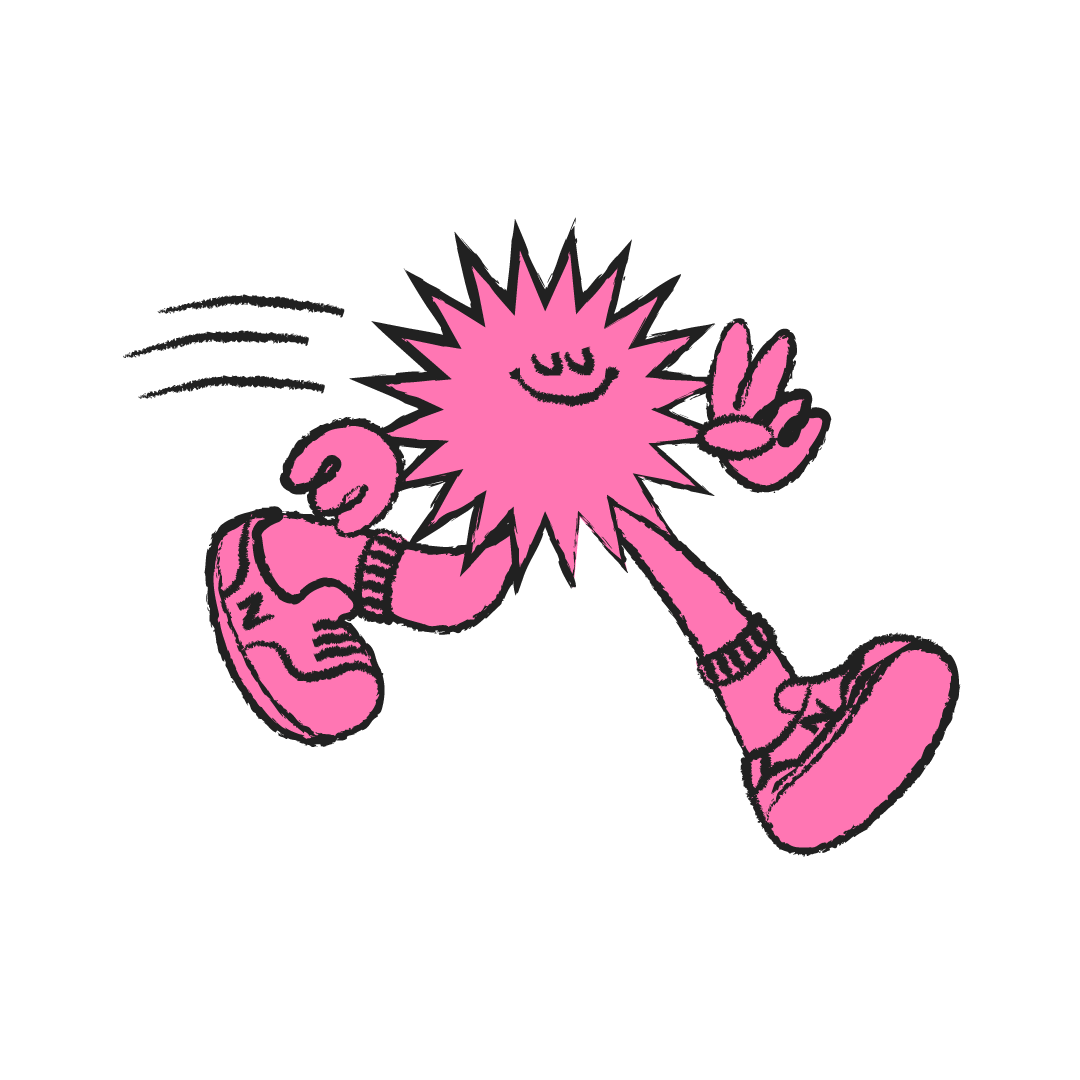
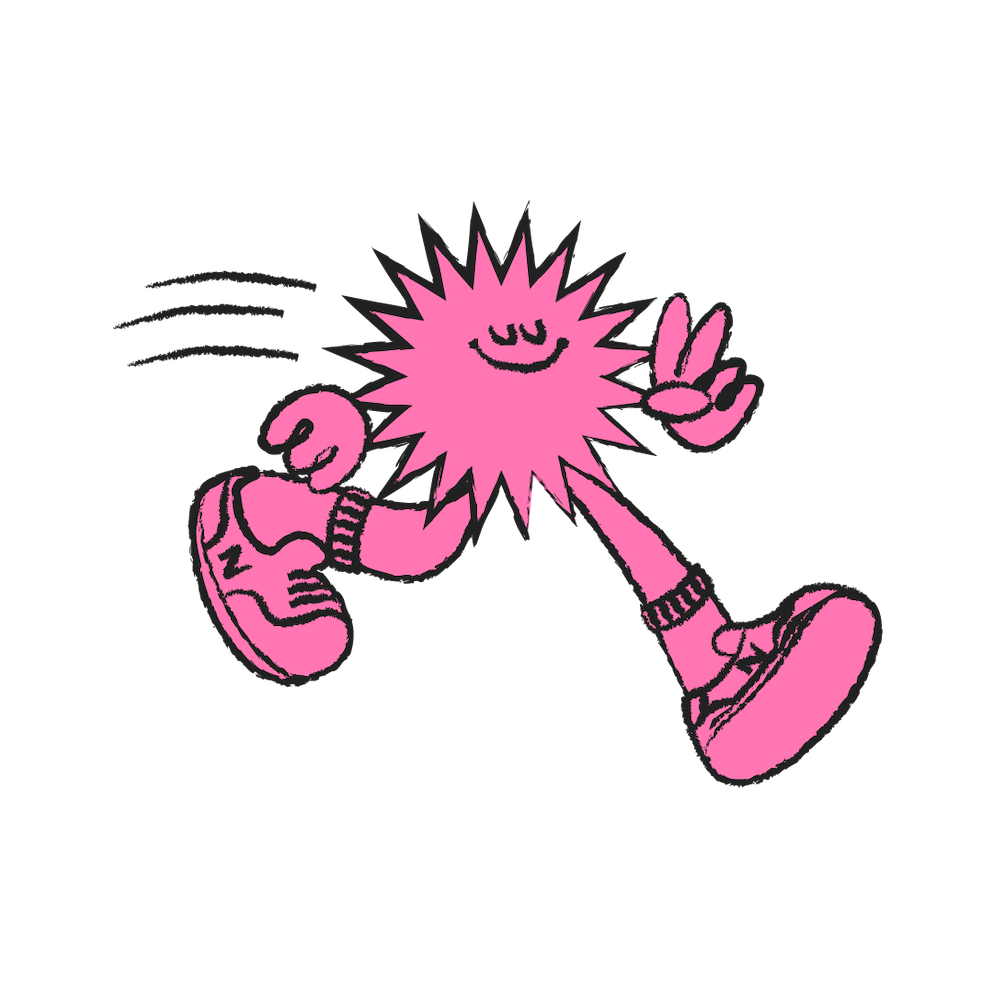
login
login screen maybe a good deal

diff --git a/antiCarreiraCarreiraClub/login.html b/antiCarreiraCarreiraClub/login.html
@@ -1,0 +1,102 @@
+<!DOCTYPE html>
+<html lang="en">
+<head>
+    <meta charset="UTF-8">
+    <meta name="viewport" content="width=device-width, initial-scale=1.0">
+    <title>Anti Carreira Carreira Clube!</title>
+    <link rel="stylesheet" href="./styles/loginStyle.css">
+    <link rel="icon" type="image/x-icon" href="./images/splashs/NOME-BRANCO-TENIS-PRETO.png">
+</head>
+<body>
+    <nav>
+        <div class="header-img-container">
+            <div class="img-logo">
+                <a href="http://www.google.com"><img src="./images/logos/logoBlack.jpg" height="100px" alt=""></a>
+            </div>
+        </div>
+        
+            <div class="options">
+                <ul>
+                    <li><a href="https://www.perunning.com.br/calendario/"></a>Corridas</li>
+                    <li>Fotos</li>
+                    <li>Quem Somos</li>
+                    <li>Login</li>
+                </ul>
+            </div>
+    </nav>
+
+    <main>
+
+        <div id="main-container">
+
+            <div id="banner-container">
+                <img src="./images/logos/logoBlack.jpg" alt="">
+            </div>
+
+            <div id="form-container">
+
+                <div id="form-box">
+
+                    <img id="logo-corre" src="./images/mascs/MASCOTE-ROSA.png">
+
+                    <form id="login-form">
+                        <input type="text" name="username" placeholder="Telefone, Usuário ou E-mail">
+                        <input type="password" name="password" placeholder="Senha">
+                        <input type="submit" value="Entrar">
+                    </form>
+
+                    <div class="separator">
+                        <div class="line"></div>
+                        <span>OU</span>
+                    </div>
+
+                    <div class="other-links">
+
+                        <div id="gmail-login">
+                            <a href="#">
+                                <img src="./images/icons/google.png" alt="botao login google">
+                                <span> Entrar com Facebook</span>
+                            </a>
+                        </div>
+
+                        <div id="apple-login">
+                            <a href="#">
+                                <img src="./images/icons/apple.png" alt="botao login google">
+                                <span> Entrar com Apple</span>
+                            </a>
+                        </div>
+                    </div>
+
+                    <div id="forgot-pass">
+                        <a href="#"> Esqueceu a senha? </a>
+                    </div> 
+                </div>  
+
+                <div id="register-container">
+                    <p>não tem uma conta? <a href="#">Cadastre-se</a></p>
+                </div>
+
+            </div>
+
+        </div>
+
+    </main>
+
+    <footer>
+        <ul id="footer-links">
+            <li><a href="#">a</a></li>
+            <li><a href="#">a</a></li>
+            <li><a href="#">a</a></li>
+            <li><a href="#">a</a></li>
+            <li><a href="#">a</a></li>
+            <li><a href="#">a</a></li>
+            <li><a href="#">a</a></li>
+            <li><a href="#">a</a></li>
+            <li><a href="#">a</a></li>
+        </ul>
+        <p id="registered">&reg;Anti Carreira Carreira Clube</p>
+    </footer>
+
+    
+</body>
+</html>

diff --git a/antiCarreiraCarreiraClub/styles/loginStyle.css b/antiCarreiraCarreiraClub/styles/loginStyle.css
@@ -1,6 +1,7 @@
 * {
     margin: 0;
     padding: 0;
+    box-sizing: border-box;
 }
 
 :root{
@@ -15,9 +16,10 @@
 }
 
 body{
-    width: 100%;
     background-color: var(--background-main);
 }
+
+/* Navbar */
 
 nav{
     background-color: var(--black-total);
@@ -83,66 +85,94 @@ nav{
 
 }
 
-.img-container{
+/* Containers */
+
+#main-container{
     display: flex;
-    justify-content: center;
-    margin: 20px 0;
-    
+    margin-top: 30px;
 }
 
-.img-container img{
-    display: flex;
-    height: 100vh;
-    border: 1px solid var(--border-white);
+#banner-container,
+#form-container{
+    flex: 1 1 0;
+    width: 50%;
 }
 
-.buy-container{
-    display: flex;
-    flex-wrap: wrap;
-    justify-items: center;
-    justify-content: space-evenly;
+#banner-container{
+    text-align: right;
+}
+
+#banner-container img{
+    width: 100%;
+    margin-right: 15px;
+    margin-top: 25px;
+    max-width: 600px;
+}
+
+#form-container{
     text-align: center;
-    padding-bottom: 20px;
-    
 }
 
-.buy-container img{
-    display: flex;
-    text-align: center;
+/* login */
+
+#form-box{
+    background-color: black;
+    border: 2px solid white;
+    width: 650px;
+    margin-top: 30px;
 }
 
-.buy-container a{
-    font-size: 25px;
-    border: 2px solid var(--black-total);
-    padding: 0 10px;
-    text-align: center;
-    text-decoration: none;
-    color: #000000;
-    border-radius:25px;
-    background-color: var(--soft-pink);
-    box-shadow: none;
+#logo-corre {
+    width: 275px;
+    margin: 30px auto 12px;
 }
 
-.buy-container a:hover{
-    transition: all 1.5s;    
-    box-shadow: 0 8px 12px 0 rgba(0, 0, 0, 0.2), 0 6px 20px 0 rgba(0, 0, 0, 0.19);
-
+#login-form{
+    margin-top: 20px ;
 }
 
-footer{
-    background-color: var(--main-green);
-    display: flex;
-    justify-content: center;
-    font-size: 25px;
-    padding: 20px 0;
+#login-form input{
+    display: block;
+    font-size: 12px;
+    padding: 12px 9px;
+    background-color: #fafafa;
+    border: 1px solid red;
+    border-radius: 3px;
+    width: 268px;
+    margin: 5px auto;
 }
 
-.footer-container{
-    display:flex;
-    justify-content: center;
-    align-items:center;
+#login-form input[type="submit"] {
+    background-color: lightblue;
+    color: #fff;
+    margin-top: 15px;
+    border-radius: 5px;
+    height: 30px;
+    font-size: 13px;
+    padding: 0px;
+    font-weight: bold;
 }
 
-.footer-container img{
-    width: 100px;
+/* Separador */
+
+.separator{
+    position: relative;
+}
+
+.separator span{
+    position: absolute;
+    text-transform: uppercase;
+    color: #bbb;
+    background-color: #060505;
+    top: -6px;
+    width: 50px;
+    margin-left: -25px;
+    font-size: 15px;
+}
+
+.line{
+    border-top: 1px solid #DBDBDB;
+    width: 268px;
+    margin: 35px auto 35px;
+
 }

diff --git a/antiCarreiraCarreiraClub/index.html b/antiCarreiraCarreiraClub/index.html
@@ -5,7 +5,7 @@
     <meta name="viewport" content="width=device-width, initial-scale=1.0">
     <title>Anti Carreira Carreira Clube!</title>
     <link rel="stylesheet" href="./styles/indexStyle.css">
-    <link rel="icon" type="image/x-icon" href="">
+    <link rel="icon" type="image/x-icon" href="./images/splashs/NOME-BRANCO-TENIS-PRETO.png">
 </head>
 <body>
     <nav>
